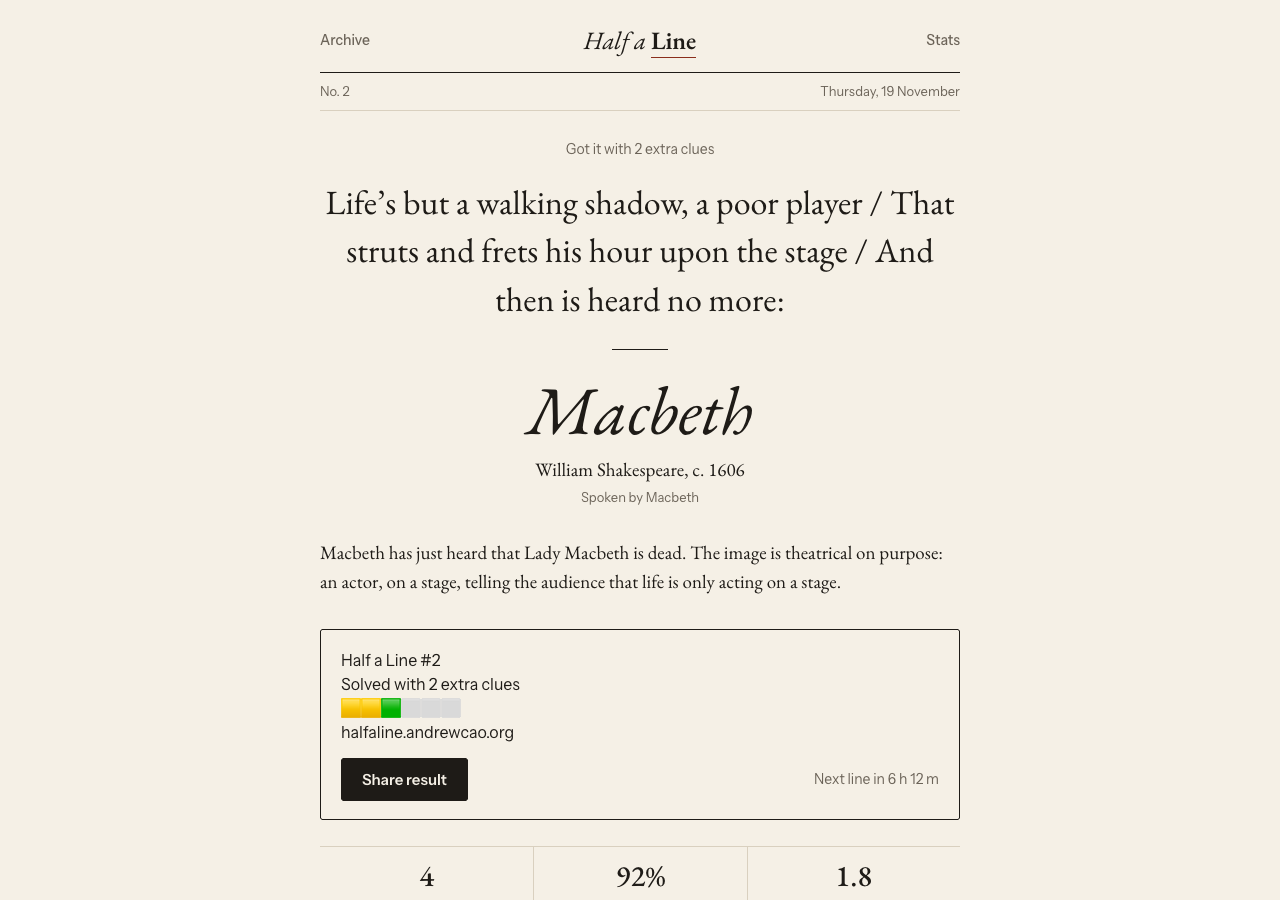
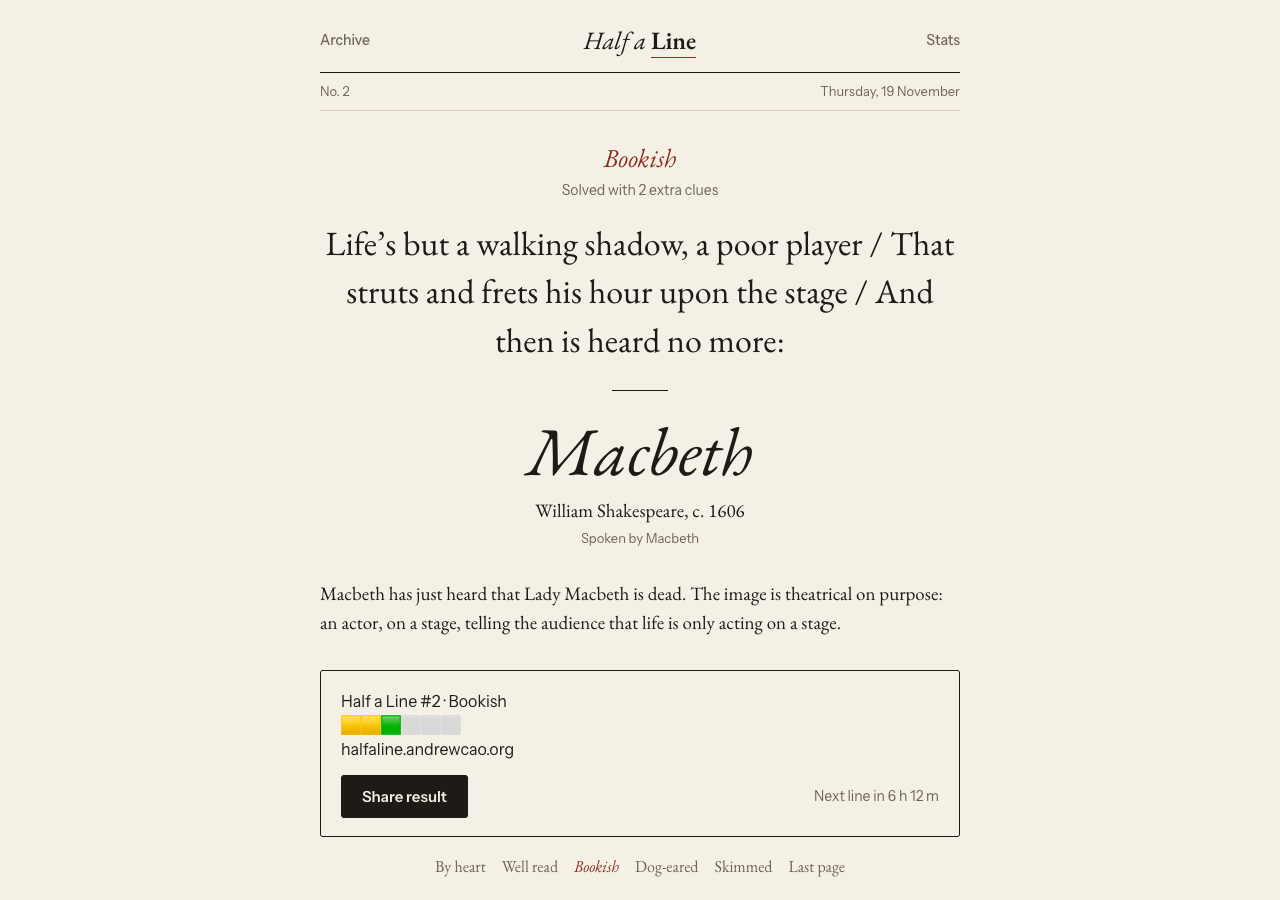
Mock-up A second pass: ranks, lift demo, Krillion and wider research, themes cut

diff --git a/docs/redesign-2026-11/a-title-page.html b/docs/redesign-2026-11/a-title-page.html
@@ -34,7 +34,11 @@ header a:last-child{justify-self:end}
 .budget p{margin:0;font-size:13px;color:var(--muted)}
 .epigraph{margin:30px 0 0;font-family:var(--serif);font-size:clamp(27px,6.6vw,38px);line-height:1.42;font-weight:400;text-wrap:pretty}
 /* Hidden piece: a letterpress blank, the words' width kept, a hairline underneath */
-.gap{color:transparent;border-bottom:1.5px solid var(--ink);-webkit-box-decoration-break:clone;box-decoration-break:clone;user-select:none}
+.gap{color:transparent;background:var(--wash);border-bottom:1.5px solid var(--ink);-webkit-box-decoration-break:clone;box-decoration-break:clone;user-select:none;transition:color .7s ease,background-color .7s ease .2s}
+.gap.short{white-space:nowrap}
+.gap.lift{color:var(--ink);background:transparent;border-color:transparent}
+.ticks span{transition:background-color .4s ease}
+@media (prefers-reduced-motion:reduce){.gap,.ticks span{transition:none}}
 .new{background:var(--wash);-webkit-box-decoration-break:clone;box-decoration-break:clone;padding:0 .08em;border-radius:var(--r)}
 .hints{list-style:none;margin:26px 0 0;padding:0;border-top:1px solid var(--rule)}
 .hints li{display:flex;gap:14px;padding:11px 0;border-bottom:1px solid var(--rule);font-size:16px}
@@ -53,6 +57,7 @@ footer{margin-top:44px;padding-top:12px;border-top:1px solid var(--rule);font-si
 .end{display:none}
 body.done .play{display:none} body.done .end{display:block}
 .verdict{margin:28px 0 0;font-size:14px;color:var(--muted);text-align:center}
+.verdict i{display:block;font-family:var(--serif);font-size:26px;color:var(--red);margin-bottom:2px}
 .end .epigraph{text-align:center;margin-top:18px;font-size:clamp(24px,5.6vw,32px)}
 .orn{width:56px;height:1px;background:var(--ink);margin:26px auto}
 .work{font-family:var(--serif);font-style:italic;font-weight:400;font-size:clamp(46px,12vw,68px);line-height:1;text-align:center;margin:0}
@@ -62,6 +67,8 @@ body.done .play{display:none} body.done .end{display:block}
 .slip{margin:32px 0 0;border:1px solid var(--ink);border-radius:var(--r);padding:18px 20px;display:grid;gap:14px}
 .slip pre{margin:0;font:400 16px/1.5 var(--sans);white-space:pre-wrap}
 .slip .row{display:flex;justify-content:space-between;align-items:center;gap:12px;flex-wrap:wrap}
+.ladder{list-style:none;margin:18px 0 0;padding:0;display:flex;flex-wrap:wrap;justify-content:center;gap:2px 16px;font-family:var(--serif);font-size:16px;color:var(--muted)}
+.ladder .me{color:var(--red);font-style:italic}
 .nums{display:grid;grid-template-columns:repeat(3,1fr);margin:26px 0 0;border-top:1px solid var(--rule);border-bottom:1px solid var(--rule)}
 .nums div{padding:12px 0;text-align:center}
 .nums div+div{border-left:1px solid var(--rule)}
@@ -81,36 +88,43 @@ body.done .play{display:none} body.done .end{display:block}
   <div class="dateline"><span>No. 2</span><span>Thursday, 19 November</span></div>
 
   <main class="play">
-    <div class="budget"><div class="ticks" aria-hidden="true"><span class="used"></span><span></span><span></span><span></span><span></span></div><p>1 of 5 clues used</p></div>
-    <p class="epigraph"><span class="gap">Life’s but a walking shadow,</span> <span class="gap">a poor player</span> / That struts and frets his hour upon the stage / And then is heard no more:</p>
+    <div class="budget"><div class="ticks" aria-hidden="true"><span class="used"></span><span></span><span></span><span></span><span></span></div><p id="count">1 of 5 clues used</p></div>
+    <p class="epigraph"><span class="gap" data-o="2">Life’s but a walking shadow,</span> <span class="gap" data-o="1">a poor player</span> / That struts and frets his hour upon the stage / And then is heard no more:</p>
     <ul class="hints"><li><em>Hint</em><span class="new">A play from the 1600s</span></li></ul>
     <p class="miss">Not King Lear. A new hint is above.</p>
     <div class="ask">
       <label for="g">Which work is this from?</label>
       <div class="field"><input id="g" placeholder="Title or author"><button class="btn">Guess</button></div>
-      <div class="below"><button class="quiet">Next clue</button><span>Too hard? <button class="quiet" style="font-size:14px">Pick from six</button></span></div>
+      <div class="below"><button class="quiet" id="next">Next clue</button><span>Too hard? <button class="quiet" style="font-size:14px">Pick from six</button></span></div>
     </div>
   </main>
 
   <main class="end">
-    <p class="verdict">Got it with 2 extra clues</p>
+    <p class="verdict"><i>Bookish</i>Solved with 2 extra clues</p>
     <p class="epigraph">Life’s but a walking shadow, a poor player / That struts and frets his hour upon the stage / And then is heard no more:</p>
     <div class="orn"></div>
     <h2 class="work">Macbeth</h2>
     <p class="byline">William Shakespeare, c. 1606<span>Spoken by Macbeth</span></p>
     <p class="note">Macbeth has just heard that Lady Macbeth is dead. The image is theatrical on purpose: an actor, on a stage, telling the audience that life is only acting on a stage.</p>
     <div class="slip">
-      <pre>Half a Line #2
-Solved with 2 extra clues
+      <pre>Half a Line #2 · Bookish
 🟨🟨🟩⬜⬜⬜
 halfaline.andrewcao.org</pre>
       <div class="row"><button class="btn">Share result</button><span style="font-size:14px;color:var(--muted)">Next line in 6 h 12 m</span></div>
     </div>
+    <ol class="ladder" aria-label="Ranks, from no extra clues to five"><li>By heart</li><li>Well read</li><li class="me">Bookish</li><li>Dog-eared</li><li>Skimmed</li><li>Last page</li></ol>
     <div class="nums"><div><b>4</b><span>Streak</span></div><div><b>92%</b><span>Solved</span></div><div><b>1.8</b><span>Avg. clues</span></div></div>
   </main>
 
   <footer><span>A new line every day at midnight.</span><span>Designed and edited by Andrew Cao</span></footer>
 </div>
-<script>if(location.hash==="#end")document.body.classList.add("done")</script>
+<script>
+if(location.hash==="#end")document.body.classList.add("done");
+// Short pieces never split across lines (no one-word slivers at a line end).
+document.querySelectorAll(".gap").forEach(g=>{if(g.textContent.length<=24)g.classList.add("short")});
+// Demo of the signature motion: "Next clue" lifts the next blank and fills the next mark.
+let used=1;document.getElementById("next").onclick=()=>{const g=[...document.querySelectorAll(".gap:not(.lift)")].sort((a,b)=>a.dataset.o-b.dataset.o)[0];
+ if(!g||used>=5)return;g.classList.add("lift");used++;document.querySelectorAll(".ticks span")[used-1].classList.add("used");document.getElementById("count").textContent=used+" of 5 clues used"};
+</script>
 </body>
 </html>

diff --git a/docs/redesign-2026-11/research.md b/docs/redesign-2026-11/research.md
@@ -39,3 +39,23 @@ Three readings, one per mock-up:
 - **A. Title page.** Printed book: the line set like a frontispiece epigraph, small caps replaced by spaced italics, a single rule, an ornament-free colophon. Contemporary in the controls (clean sans, flat buttons, a progress row of short rules). Closest to the NYT model.
 - **B. Index card.** Library catalogue card: ruled lines, a typewriter-era serif for data (not monospace as decoration; a slab used as the house face), a red margin rule, the share text styled as a catalogue stamp. More character, more risk.
 - **C. Broadsheet.** Newspaper puzzle page: a tight masthead with the date and number, two-column on desktop (line left, guess and hints right), heavy-and-hairline rule pairs. Most contemporary, the most "daily".
+
+---
+
+# Second pass (27 Nov 2026): Krillion and a wider net
+
+Andrew picked A and pointed to **Krillion** ("one in a krillion"). Checked by playing it at phone width.
+
+| Game | Core loop | What to take |
+|---|---|---|
+| **Krillion** (krillion.io, "the daily dive") | 7 trivia prompts, 25 seconds each; *rarer* answers score more. The score is depth: your krill sinks past labelled ocean zones ("the Titanic rests here, 3,800m"), and the top tier is "One in a Krillion". | **The score has a name and a picture.** Nobody shares "412 points"; they share "One in a Krillion". Every answer gets an instant, physical consequence (the dive). Also: a ruled depth gauge, a progress row of seven squares at the top, one big start button, Archive / Themed packs / Unlimited as plain links. |
+| **Pinpoint** (LinkedIn) | Guess the category; up to five clue words revealed one at a time | The closest cousin to ours: the clue *accumulates*, and the share is the count of clues you needed. Confirms our loop; nothing to change in it. |
+| **Bracket City** (The Atlantic) | Solve nested clues inside brackets | A daily game from a 160-year-old magazine that looks both old and new: cream page, the magazine's serif masthead, typewriter type for the puzzle, one accent colour. "Peek" (first letter) and "reveal" make hint cost visible. The best existing precedent for direction A. |
+| **Queens / Tango / Zip** (LinkedIn), **Pips** (NYT) | Logic grids | One screen, a timer as the score, streaks with friends' results. Less relevant: we are a reading game, not a speed game. |
+
+**What changes in A because of this:**
+1. **Ranks instead of a number,** Krillion's "One in a Krillion" in a reader's voice: *By heart* (no extra clues), *Well read*, *Bookish*, *Dog-eared*, *Skimmed*, *Last page*; a miss is *Still reading*. The rank leads the end screen and the share text ("Half a Line #2 · Bookish"). The squares stay. Draft wording, for Andrew to approve.
+2. **The lift is the dive:** each extra clue inks in a blank and fills one mark, in one motion (open A and press "Next clue"). It is the only animation, and reduced motion turns it off.
+3. **Not taken:** a timer (wrong for a reading game); several prompts a day (one line is the ritual); rarity against other players and "10,558 playing" (both need a server, which the site's rules rule out without Andrew's decision).
+
+**Themes (Andrew: cut them if they hold it back).** They do, on screen: the "This week: …" label, the painting plate and the theme in the share text add a third layer to a page that now has two (the line, then the answer). Recommendation, Lean: keep themed weeks as an editorial choice of lines, and drop the on-screen theme from the play screen, end screen and share text; the Archive keeps its weekly headings. The paintings would go (`site/weeks.js`, `site/weeks/`). No line text changes either way.

diff --git a/docs/redesign-2026-11/README.md b/docs/redesign-2026-11/README.md
@@ -16,3 +16,6 @@ All three share the same game changes, borrowed from the top daily games:
 | **C. Broadsheet** | Source Serif 4 + Archivo | solid black bars, newest clue in the existing yellow | 0 | newspaper puzzle page; most contemporary, two columns on desktop |
 
 Not covered yet: Archive, Stats, About, Settings, easy mode, the bonus word, the painting of the week, the lift animation. Those follow the picked direction.
+
+## Second pass (27 Nov): Andrew picked A
+A now has named ranks (By heart → Last page; a miss is Still reading) leading the end screen and the share text, tinted blanks that ink in on "Next clue" (open the page and press it), and no themed-week chrome. Reasons and the Krillion / Pinpoint / Bracket City notes: end of `research.md`.
